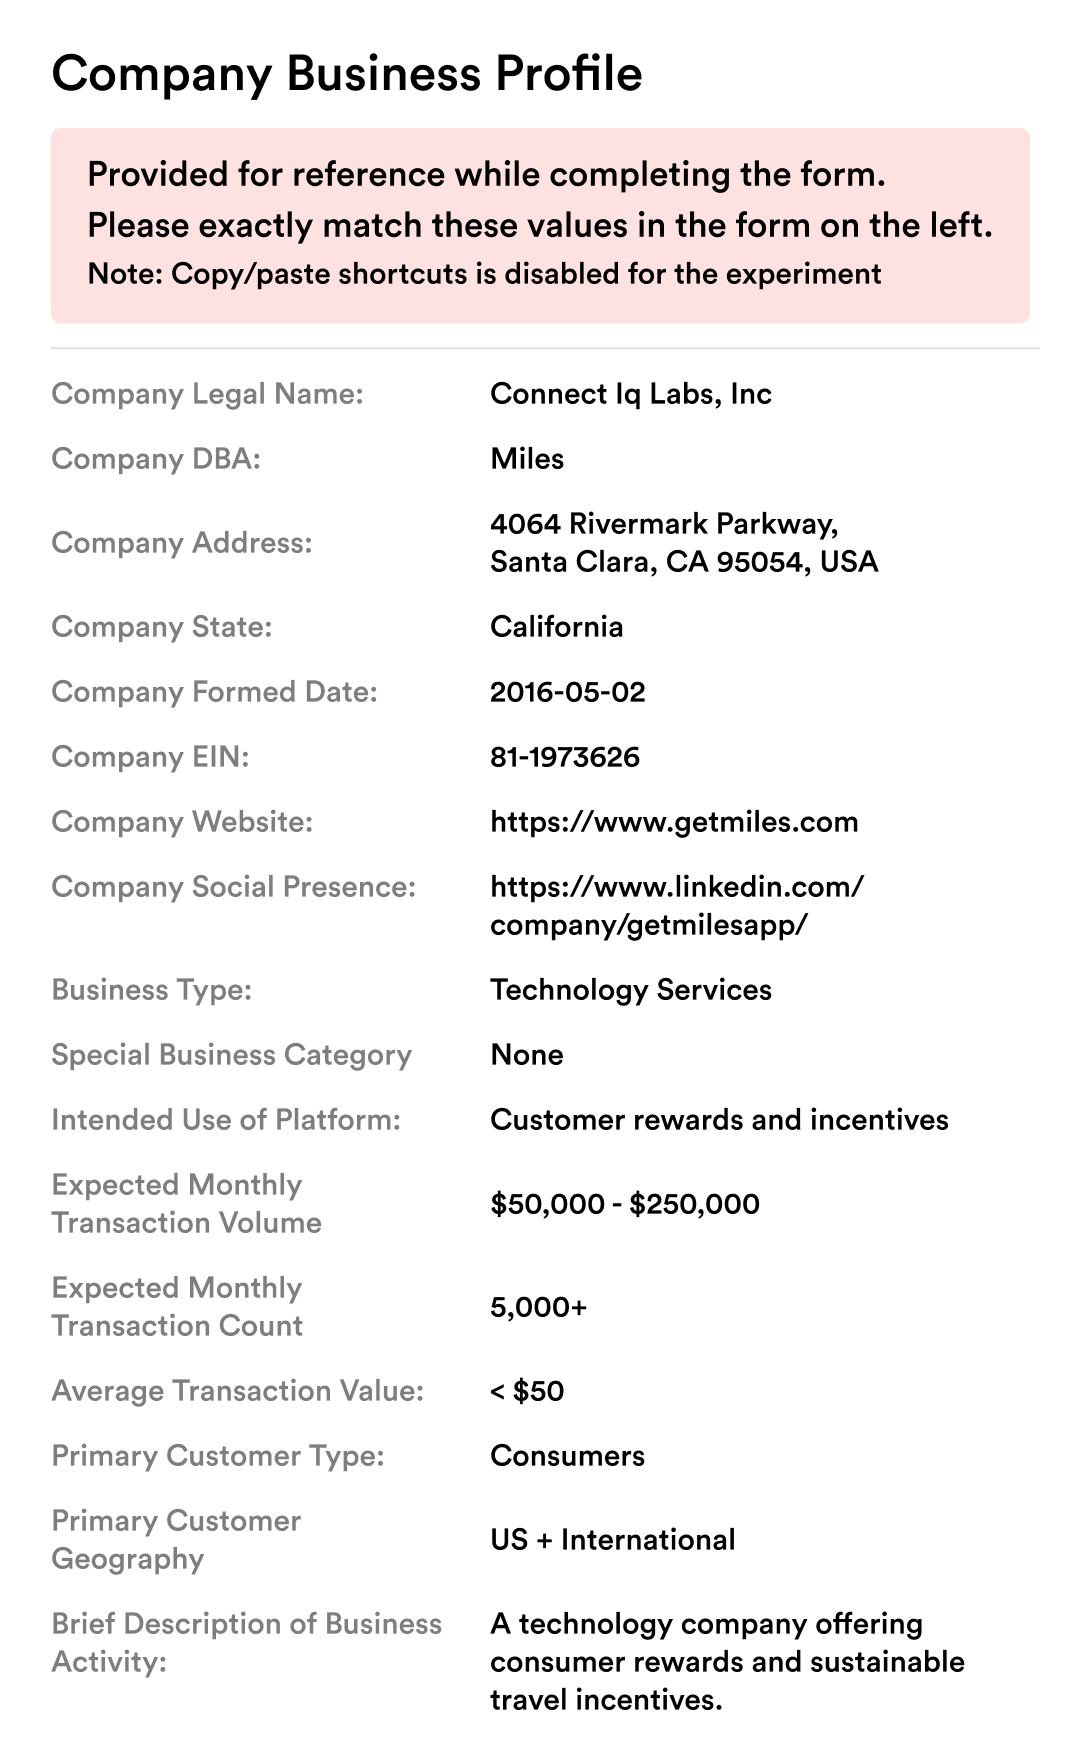
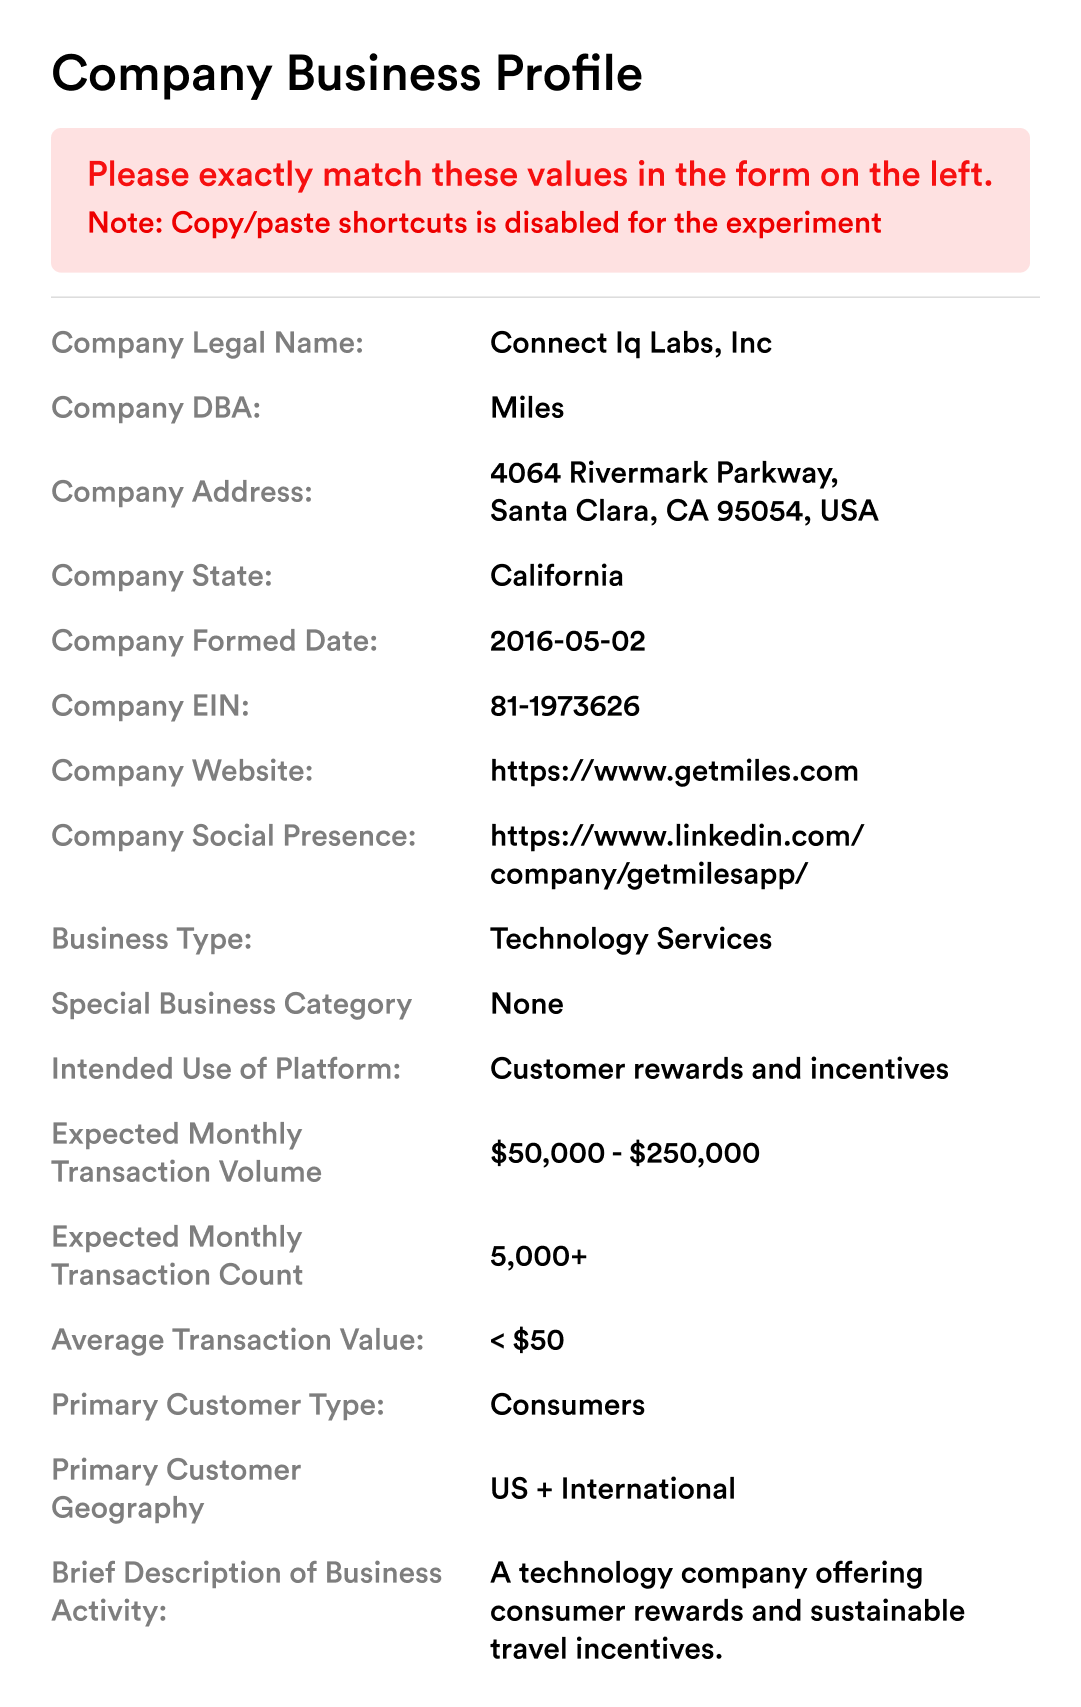
Initial commit v2)

diff --git a/app.js b/app.js
@@ -191,13 +191,13 @@ const screens = [
     render: () => `
       
 
-      <div class="note small">
+      <div class="note">
         <strong>Study instruction: Read carefully before proceeding.</strong>
         <div>
-        <strong>Use the Business Profile (Reference) to complete the form.</strong> 
+        <p>In this task, you will act as a representative of Connect IQ Labs onboarding into a new portal. Using the provided Business Profile, complete the form by matching all fields to the exact same values from the profile.</p>
         </div>
         ${(condition === "B" || condition === "C")
-          ? `<div class="muted small" style="margin-top:6px;"><p>In this scenario, the system attempts to prefill the form using the EIN confirmation letter (CP 575) along with AI-generated suggestions.</p>
+          ? `<div style="margin-top:6px;"><p>In this scenario, the system attempts to prefill the form using the EIN confirmation letter (CP 575) along with AI-generated suggestions.</p>
           <p> Please use the business profile information (shown on the right) to complete the form as accurately as possible.</p>
           <strong><p> Each field displays a confidence score for accuracy in its top-right corner. </p> </strong> </div>`
           : ""}
@@ -649,32 +649,32 @@ function surveyHtml() {
       <strong>Instructions:</strong> Answer based on the onboarding task you just completed.
     </div>
 
-    <h2 style="margin:14px 0 8px; font-size:16px;">NASA-TLX (raw)</h2>
+    <h2 style="margin:14px 0 8px; font-size:16px;">NASA-TLX (raw) Please rate each item from 0 to 20. 0 = low → 20 = high (higher = worse)</h2>
     <div class="scaleRow">
-      ${range("Mental Demand", "tlx_mental", 0, 20, 10)}
-      ${range("Temporal Demand", "tlx_temporal", 0, 20, 10)}
-      ${range("Effort", "tlx_effort", 0, 20, 10)}
-      ${range("Frustration", "tlx_frustration", 0, 20, 10)}
-      ${range("Performance (higher = worse)", "tlx_performance", 0, 20, 10)}
-      ${range("Physical Demand", "tlx_physical", 0, 20, 0)}
+      ${range("Mental Demand (0 = Very low, 20 = Very high)", "tlx_mental", 0, 20, 10)}
+      ${range("Temporal Demand (0 = Very low, 20 = Very high)", "tlx_temporal", 0, 20, 10)}
+      ${range("Effort (0 = Very low, 20 = Very high)", "tlx_effort", 0, 20, 10)}
+      ${range("Frustration (0 = Very low, 20 = Very high)", "tlx_frustration", 0, 20, 10)}
+      ${range("Performance (0 = Excellent performance (I did very well),20 = Poor performance (I did very badly))", "tlx_performance", 0, 20, 10)}
+      ${range("Physical Demand (0 = Very low, 20 = Very high)", "tlx_physical", 0, 20, 0)}
     </div>
 
     <hr class="sep" />
 
     <h2 style="margin:14px 0 8px; font-size:16px;">Perceived effort</h2>
-    ${likert7("How effortful was this onboarding process?", "effort_single")}
+    ${likert7("How effortful was this onboarding process? 1 = very low effort, 7 = very high effort", "effort_single")}
 
     <hr class="sep" />
 
     <h2 style="margin:14px 0 8px; font-size:16px;">Usability (UMUX-Lite)</h2>
-    ${likert7("This system’s capabilities meet my requirements.", "umux_req")}
+    ${likert7("This system’s capabilities meet my requirements. 1 = strongly disagree, 7 = strongly agree", "umux_req")}
     ${likert7("This system is easy to use.", "umux_easy")}
 
     <hr class="sep" />
 
     <h2 style="margin:14px 0 8px; font-size:16px;">Trust & control</h2>
-    ${likert7("I trust the system to complete onboarding correctly.", "trust_auto")}
-    ${likert7("I felt in control of what information was submitted.", "control")}
+    ${likert7("I trust the system to complete onboarding correctly. 1 = strongly disagree, 7 = strongly agree", "trust_auto")}
+    ${likert7("I felt in control of what information was submitted. 1 = strongly disagree, 7 = strongly agree", "control")}
   `;
 }
 

diff --git a/index.html b/index.html
@@ -53,7 +53,7 @@
           <div id="tab-doc" class="tabpane tabpane--active">
             <div class="mini">
               <div class="mini__title">EIN confirmation letter (CP 575)</div>
-              <div class="mini__desc muted">Pre-provided for this prototype. Reference only.</div>
+              <div class="mini__desc muted">Pre-provided for this prototype.</div>
             </div>
             <div class="docPreview" id="docPreview">
               <div class="docPreview__empty muted">Loading CP 575…</div>
@@ -63,7 +63,7 @@
           <div id="tab-profile" class="tabpane">
             <div class="mini">
               <div class="mini__title">Business Profile (Reference)</div>
-              <div class="mini__desc muted">Pre-provided as an image.</div>
+              <div class="mini__desc muted">Use the same values from this image and input to the form on the left.</div>
             </div>
             <div class="docPreview" id="profilePreview">
               <div class="docPreview__empty muted">Loading Business Profile…</div>
